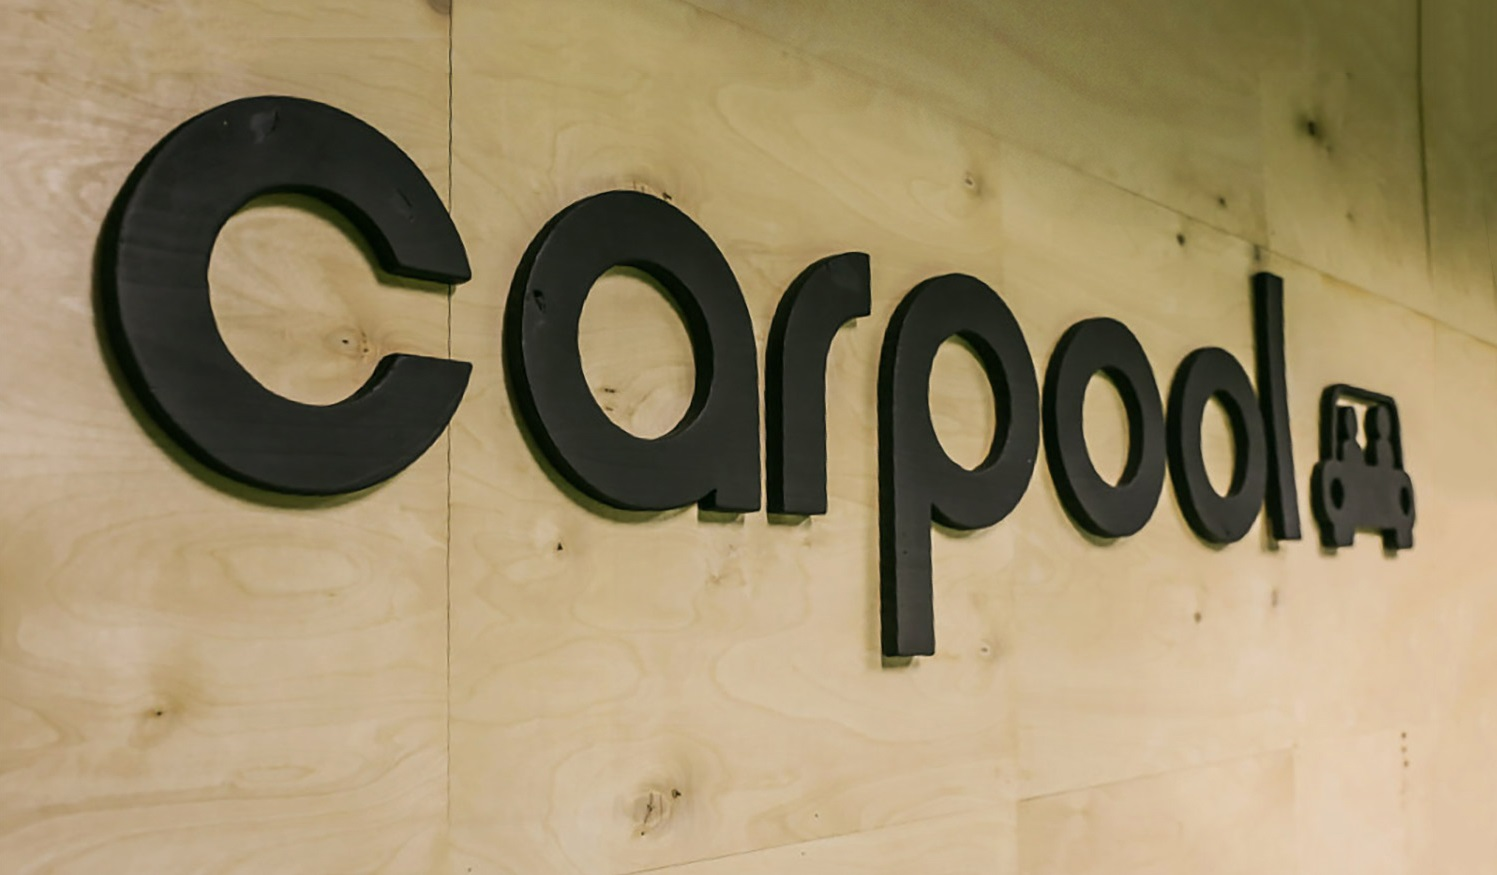
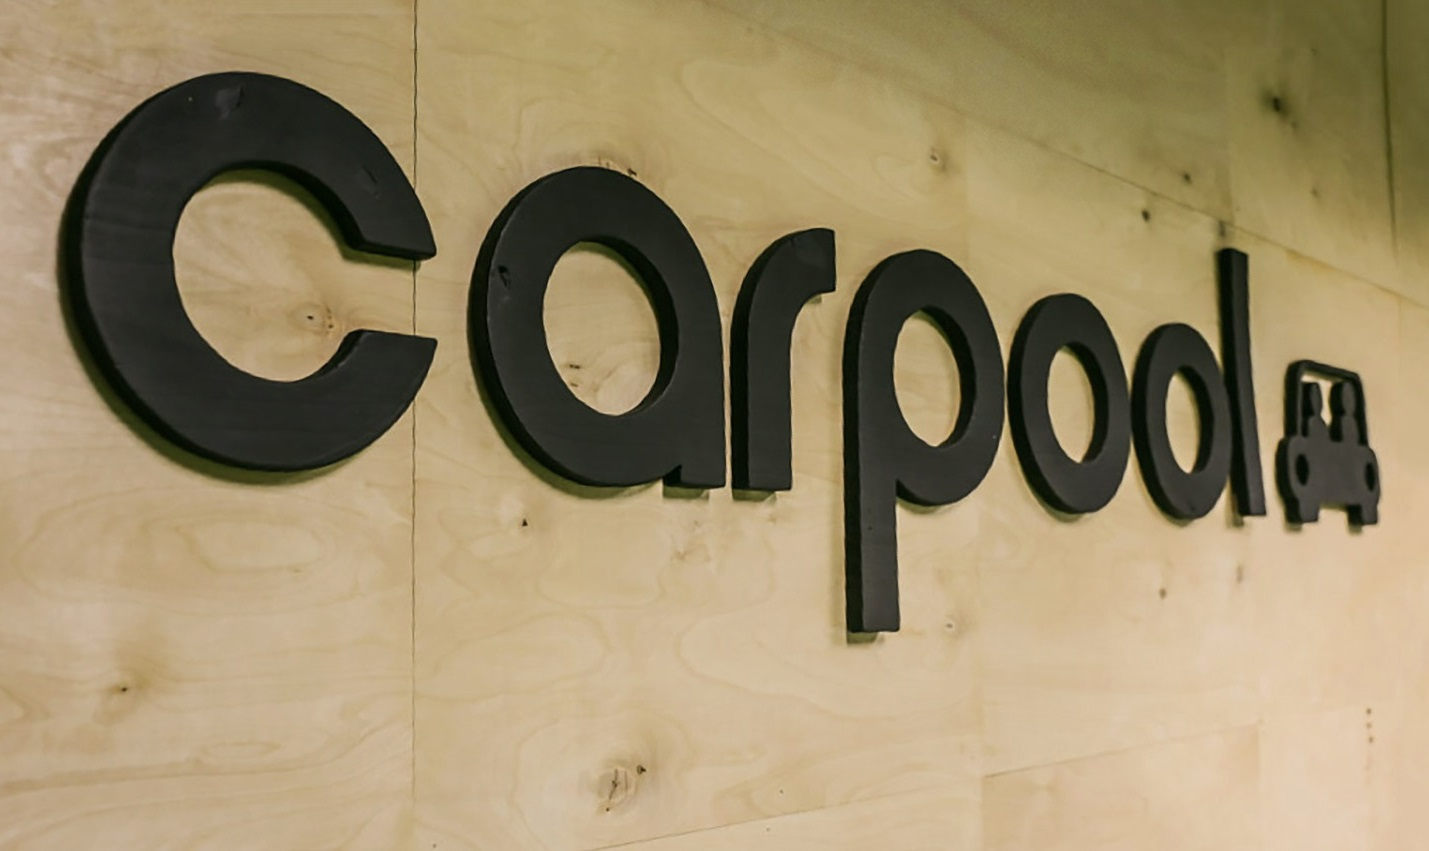
Update header image

diff --git a/_includes/head.html b/_includes/head.html
@@ -8,8 +8,6 @@
 	<meta property="og:title"              content="Carpool Agency{% if page.title %} - {{ page.title }}{% endif %}" />
     <meta property="og:description"        content="Carpool helps you do work better. We develop communication environments that foster better business." />
 	<meta property="og:image"              content="http://carpoolagency.com{% if page.defaultImage %}{{site.url}}{{ page.defaultImage }}{% else %}{{site.url}}/carpool/img/background_images/carpool_header_resize.jpg{% endif %}" />
-    <meta property="og:image:width"        content="749" />
-    <meta property="og:image:height"       content="513" />
     <!--[if lt IE 9]>
     <script src="//html5shiv.googlecode.com/svn/trunk/html5.js"></script>
     <![endif]-->
